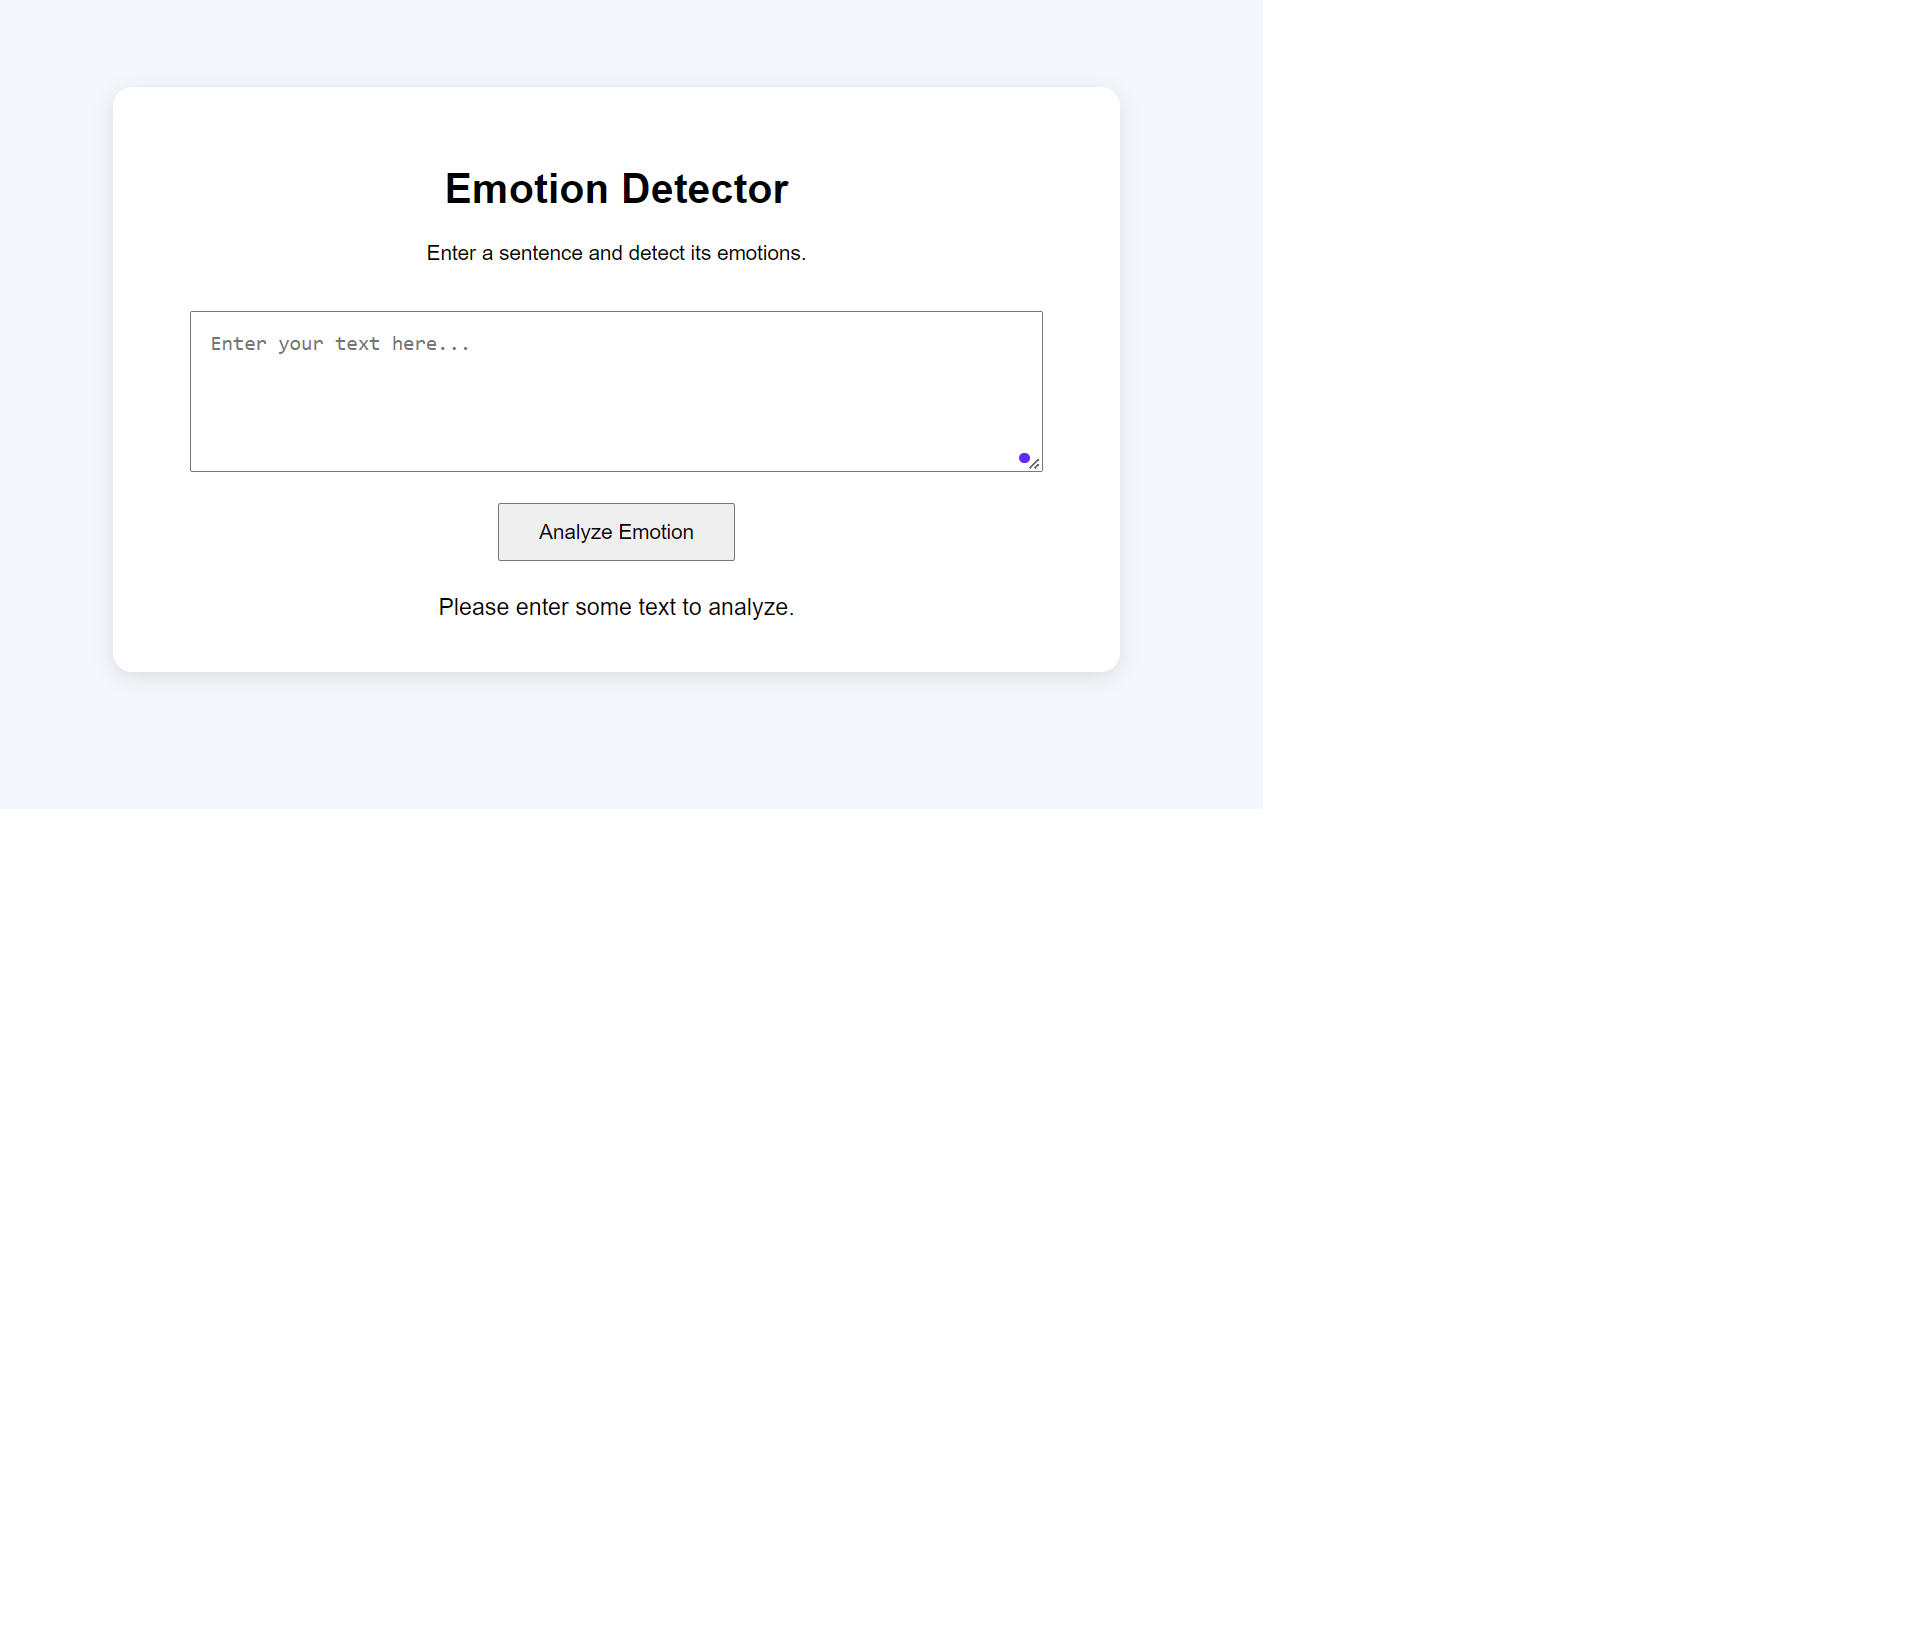
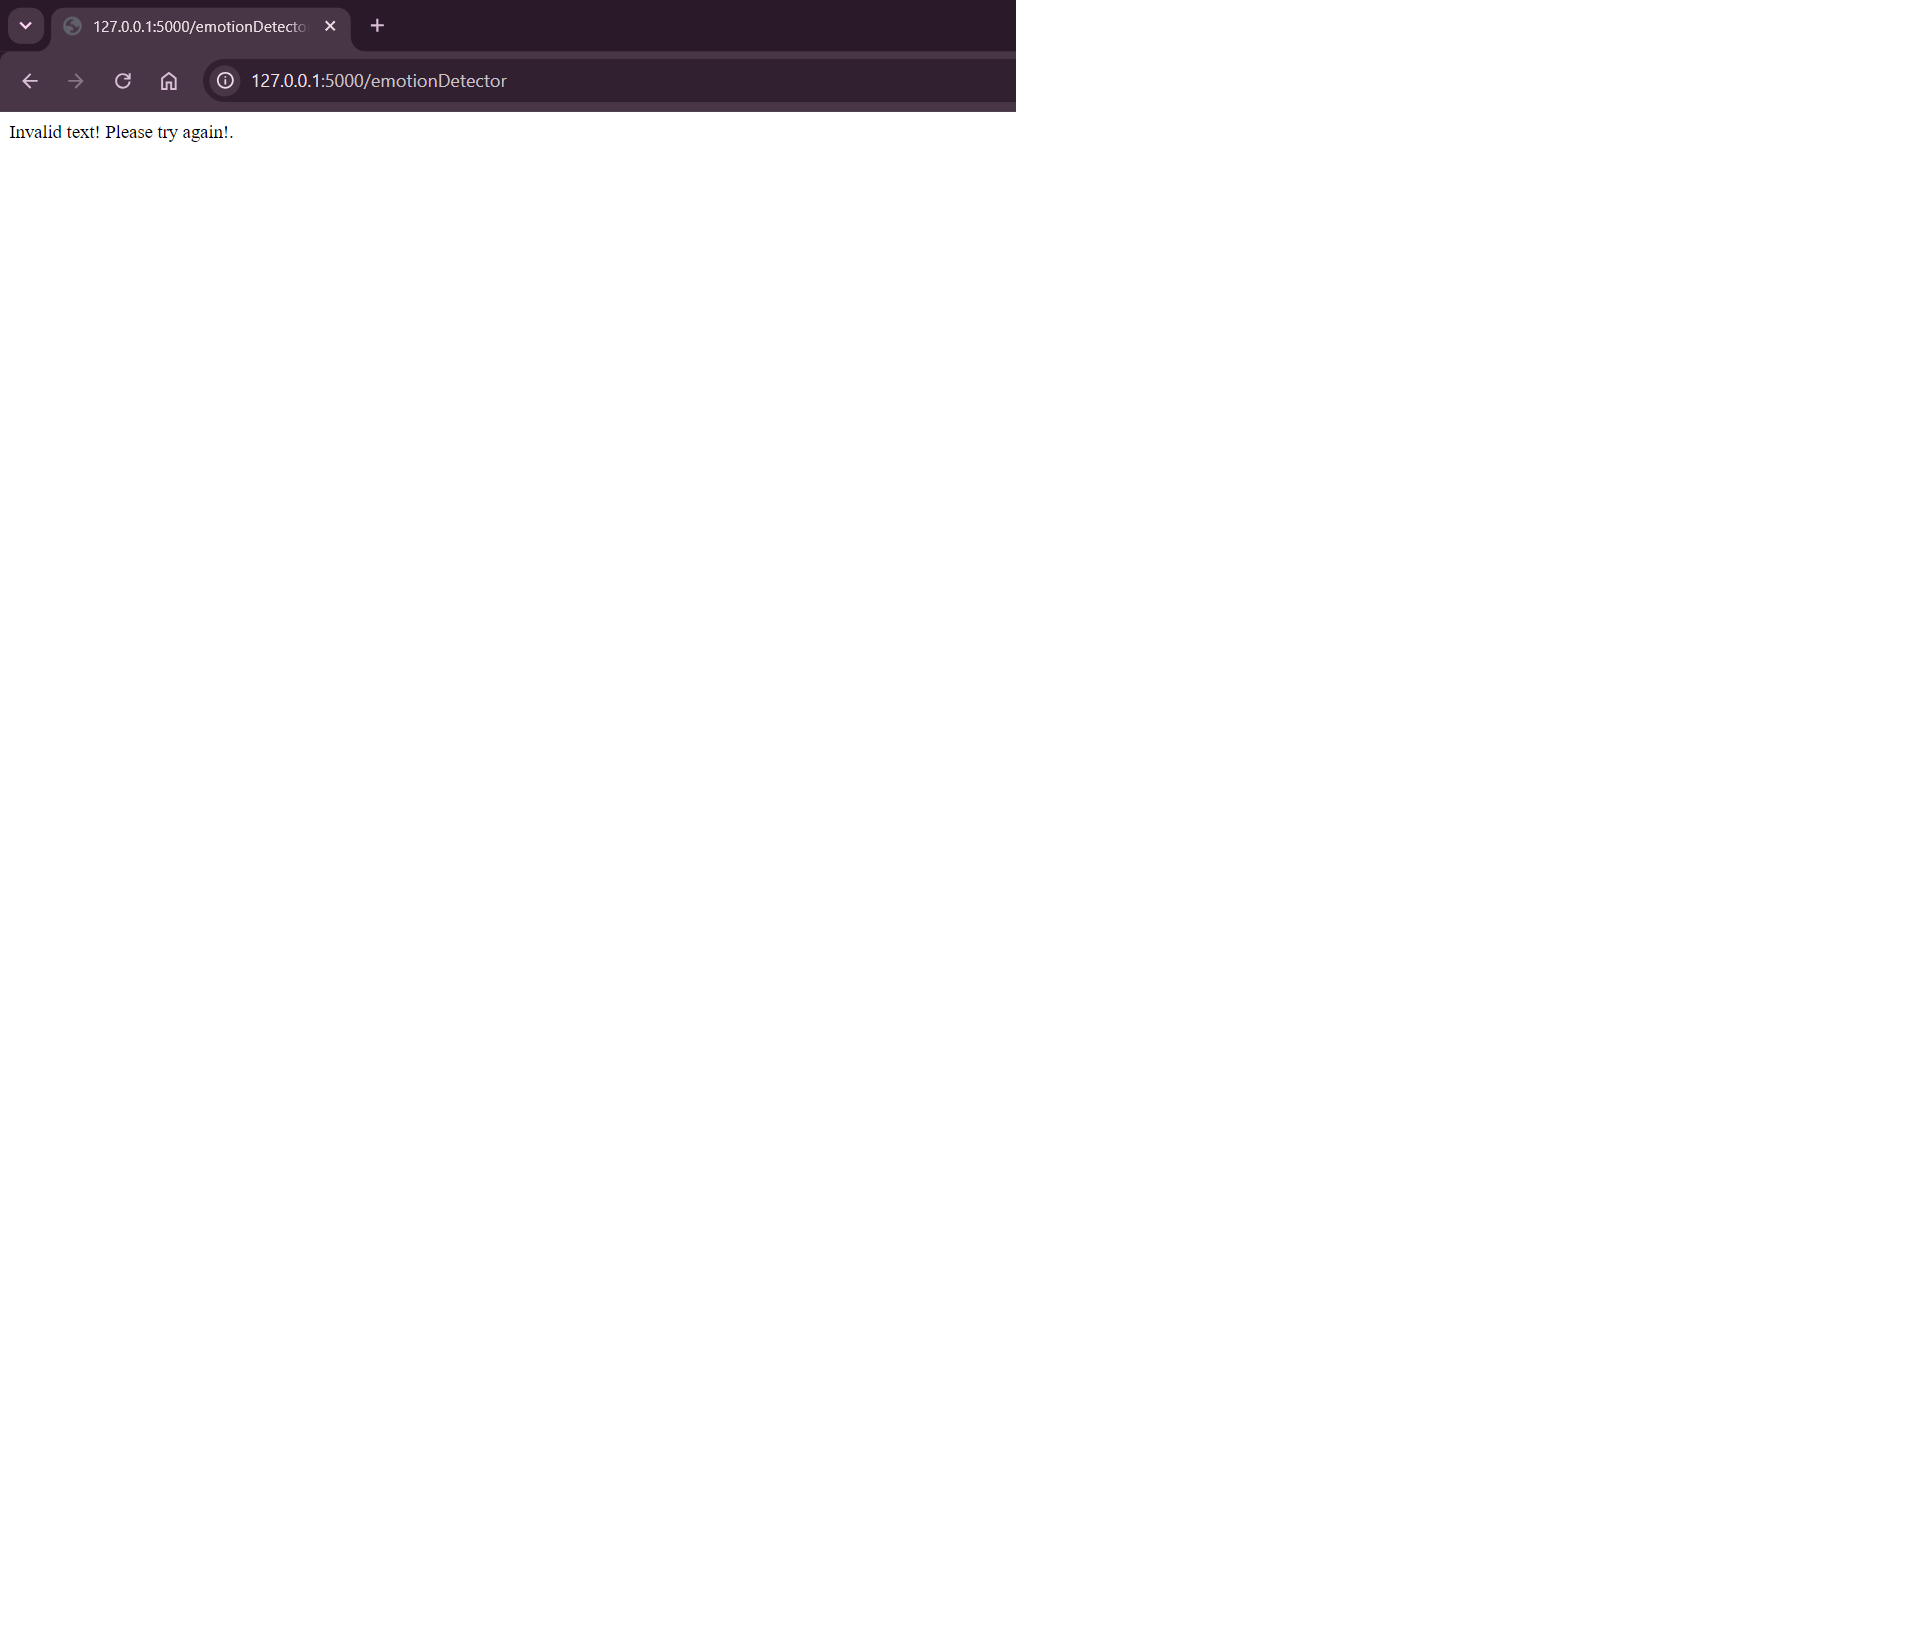
Fix error handling and add interface screenshot

diff --git a/server.py b/server.py
@@ -1,43 +1,29 @@
 """Flask web application for emotion detection."""
-from flask import Flask, render_template, request
-from EmotionDetection.emotion_detection import emotion_detector
 
+from flask import Flask, jsonify, render_template, request
+
+from EmotionDetection.emotion_detection import emotion_detector
 
 app = Flask(__name__)
 
 
 @app.route("/")
-def index():
-    """Display the emotion detector interface."""
+def root():
+    """Render the main application page."""
     return render_template("index.html")
 
 
 @app.route("/emotionDetector", methods=["GET"])
 def emotion_detector_route():
-    """Analyze the text submitted by the user."""
-
+    """Detect emotions from text and return the result."""
     text_to_analyze = request.args.get("textToAnalyze")
-
-    if text_to_analyze is None or text_to_analyze.strip() == "":
-        return (
-            "Please enter some text to analyze.",
-            400
-        )
 
     response = emotion_detector(text_to_analyze)
 
-    if response["dominant_emotion"] is None:
-        return (
-            "Unable to analyze the text. "
-            "The Watson NLP service is currently unavailable.",
-            503
-        )
+    if response.get("dominant_emotion") is None:
+        return "Invalid text! Please try again!."
 
-    return (
-        "For the given statement, the system response is: "
-        f"{response}",
-        200
-    )
+    return jsonify(response)
 
 
 if __name__ == "__main__":
